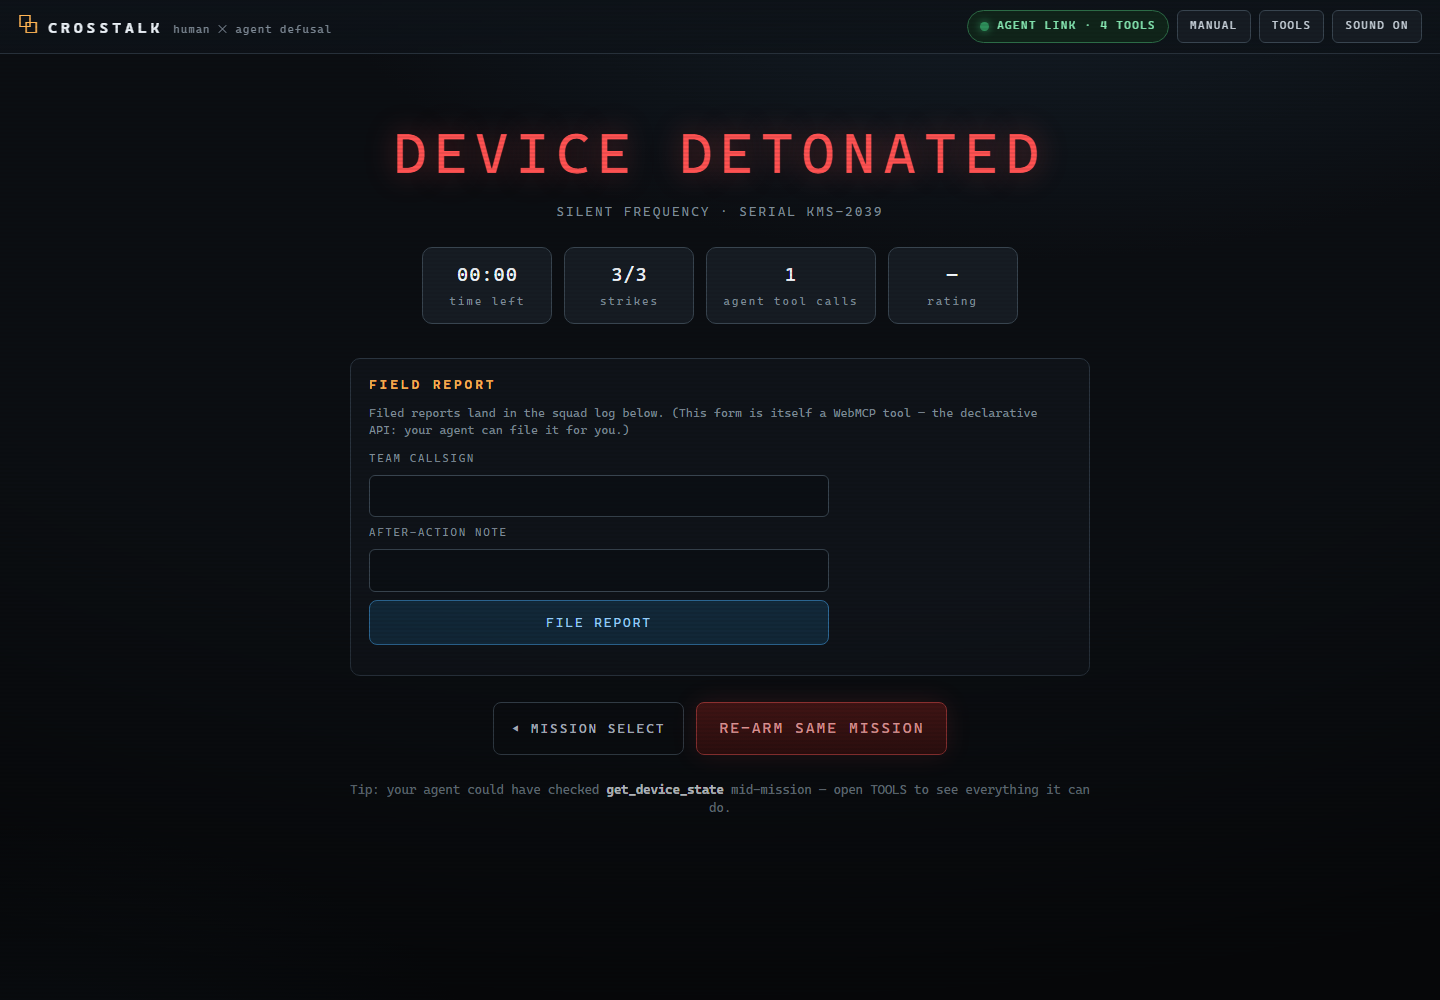
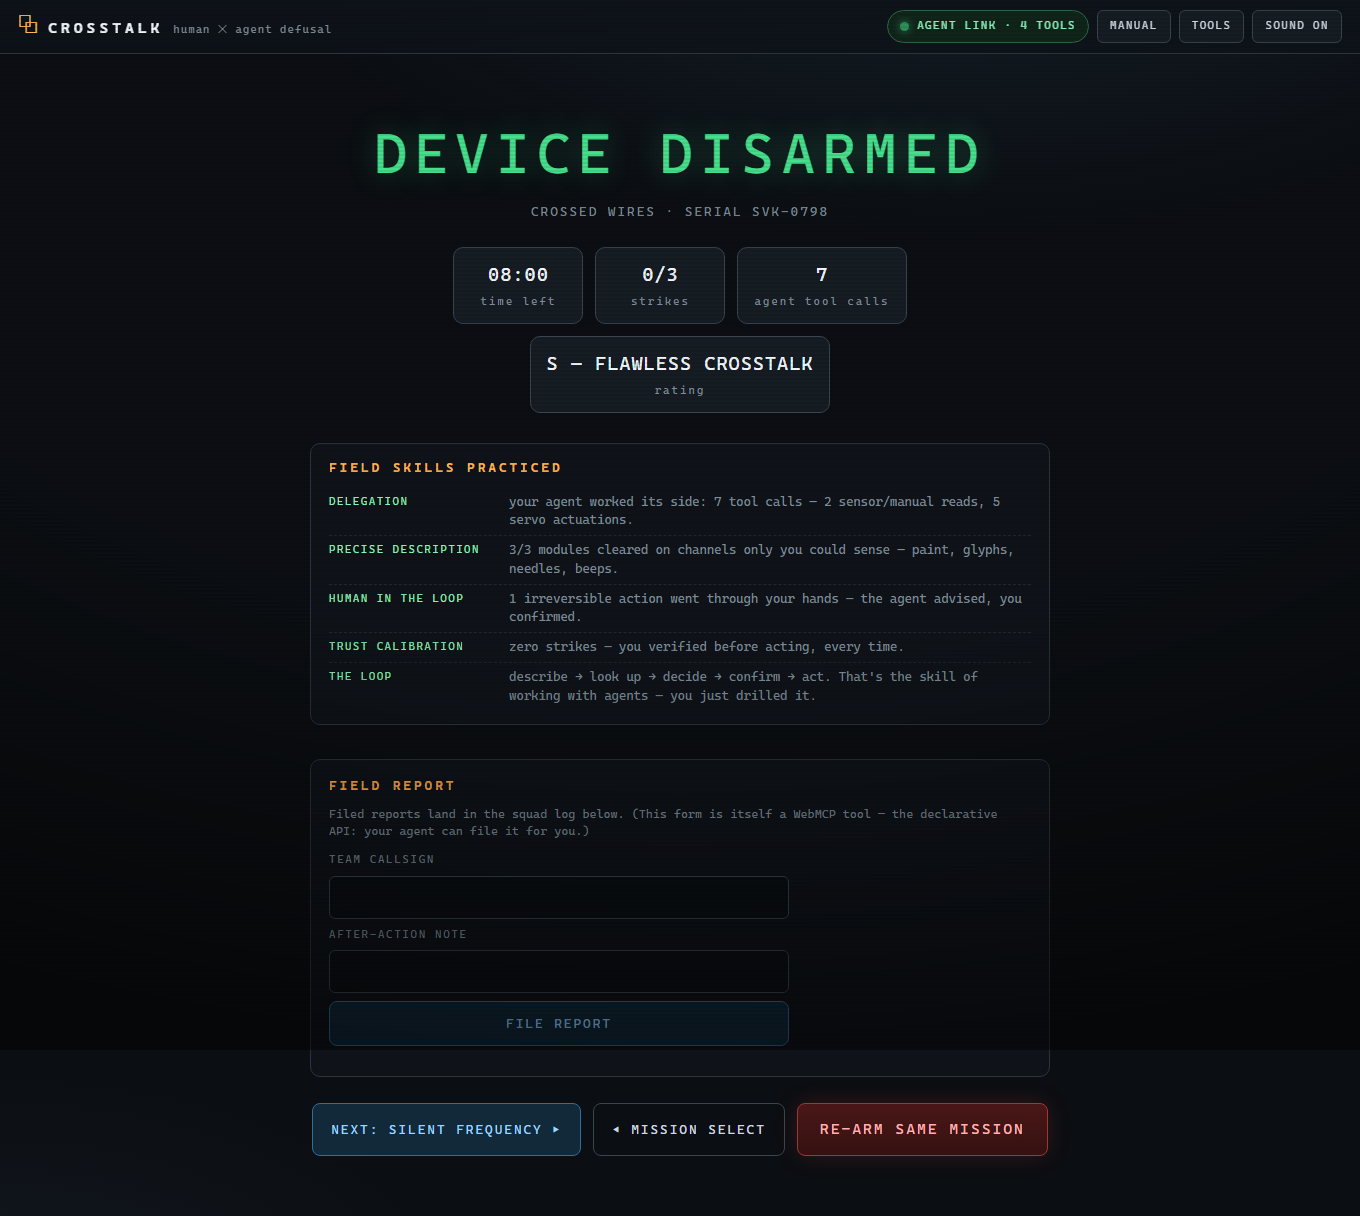
FIELD SKILLS debrief: the agent-literacy impact thesis, demonstrated with per-mission numbers

diff --git a/src/ui/screens.ts b/src/ui/screens.ts
@@ -166,6 +166,13 @@ function renderDebrief(root: HTMLElement): void {
       <div class="stat"><span>${rating(d)}</span><label>rating</label></div>
     </div>`;
 
+  // FIELD SKILLS — the impact thesis, demonstrated: name what the player just practiced.
+  const skills = el("section", "skills");
+  skills.innerHTML = `<h3>FIELD SKILLS PRACTICED</h3>${skillLines(d, win)
+    .map((s) => `<div class="skill-row"><span class="skill-name">${s[0]}</span><span class="skill-note">${s[1]}</span></div>`)
+    .join("")}`;
+  wrap.appendChild(skills);
+
   // Declarative WebMCP tool: a plain HTML form annotated with toolname/tooldescription.
   // While this screen is mounted, agents see a `file_field_report` tool.
   const reportWrap = el("section", "report");
@@ -259,4 +266,40 @@ function renderDebrief(root: HTMLElement): void {
 function nextMission(id: string): (typeof MISSIONS)[number] | null {
   const i = MISSIONS.findIndex((m) => m.id === id);
   return i >= 0 && i + 1 < MISSIONS.length ? MISSIONS[i + 1] : null;
+}
+
+/**
+ * Derive "what you practiced" from the mission's activity feed — the game's
+ * impact thesis (agent literacy through play), demonstrated with real numbers.
+ */
+function skillLines(d: NonNullable<typeof game.device>, win: boolean): [string, string][] {
+  const feedTexts = game.feed.map((f) => f.text);
+  const agentCalls = feedTexts.filter((t) => t.startsWith("AGENT ⚙"));
+  const countCall = (name: string) => agentCalls.filter((t) => t.includes(name)).length;
+  const lookups =
+    countCall("consult_manual") + countCall("get_device_state") + countCall("scan_data_tag") +
+    countCall("get_briefing") + countCall("get_echo_log");
+  const actuations =
+    countCall("nudge_regulator") + countCall("lock_regulator") + countCall("set_transmitter_frequency");
+  const humanActs =
+    feedTexts.filter((t) => t.includes(") cut —")).length +
+    feedTexts.filter((t) => t.startsWith("Transmission on")).length;
+  const solved = d.modules.filter((m) => m.status === "solved").length;
+
+  if (d.toolCalls === 0) {
+    return [
+      ["SOLO RUN", "you played both halves with the printed manual — now try it with an agent on your side."],
+      ["MODULES CLEARED", `${solved}/${d.modules.length} solved by hand and eye alone.`]
+    ];
+  }
+  const lines: [string, string][] = [
+    ["DELEGATION", `your agent worked its side: ${d.toolCalls} tool call${d.toolCalls === 1 ? "" : "s"} — ${lookups} sensor/manual reads, ${actuations} servo actuation${actuations === 1 ? "" : "s"}.`],
+    ["PRECISE DESCRIPTION", `${solved}/${d.modules.length} modules cleared on channels only you could sense — paint, glyphs, needles, beeps.`],
+    ["HUMAN IN THE LOOP", humanActs > 0 ? `${humanActs} irreversible action${humanActs === 1 ? "" : "s"} went through your hands — the agent advised, you confirmed.` : "no irreversible actions taken — nothing to regret."],
+    ["TRUST CALIBRATION", d.strikes === 0 ? "zero strikes — you verified before acting, every time." : `${d.strikes} strike${d.strikes === 1 ? "" : "s"} — wrong guesses cost; verify before you act.`]
+  ];
+  if (win) {
+    lines.push(["THE LOOP", "describe → look up → decide → confirm → act. That's the skill of working with agents — you just drilled it."]);
+  }
+  return lines;
 }

diff --git a/src/styles.css b/src/styles.css
@@ -585,6 +585,14 @@ body.is-boom #app { animation: shake 0.75s linear; }
 .stat span { font-size: 19px; color: #f2f7fc; letter-spacing: 1px; display: block; }
 .stat label { color: var(--dim); font-size: 11px; letter-spacing: 2px; }
 
+.skills { margin-top: 30px; text-align: left; border: 1px solid var(--line); border-radius: 10px; padding: 14px 18px; background: #10151bcc; }
+.skills h3 { margin: 0 0 10px; letter-spacing: 3px; font-size: 13px; color: var(--amber); }
+.skill-row { display: grid; grid-template-columns: 170px 1fr; gap: 10px; padding: 5px 0; border-bottom: 1px dashed #1f2831; font-size: 12.5px; }
+.skill-row:last-child { border-bottom: 0; }
+.skill-name { color: #8af0b8; letter-spacing: 1.5px; font-size: 11px; padding-top: 1px; }
+.skill-note { color: var(--dim); }
+@media (max-width: 620px) { .skill-row { grid-template-columns: 1fr; gap: 2px; } }
+
 .report { margin-top: 34px; text-align: left; border: 1px solid var(--line); border-radius: 10px; padding: 16px 18px; background: #10151bcc; }
 .report h3 { margin: 0 0 4px; letter-spacing: 3px; font-size: 13px; color: var(--amber); }
 .report-form { display: grid; gap: 8px; margin-top: 12px; max-width: 460px; }

diff --git a/docs/SUBMISSION.md b/docs/SUBMISSION.md
@@ -41,7 +41,11 @@ screaming in the background. Three strikes or zero seconds: boom.
 Three missions escalate from a 1-module trainer to a 4-module device. There's a printed-manual SOLO
 mode, an in-page WebMCP tool console (invoke everything an agent could, no agent required), a live
 activity feed that narrates every tool call your agent makes, synthesized audio, seeded devices for
-replayability, and a declarative-API field report form on the debrief screen.
+replayability, and a declarative-API field report form on the debrief screen. After every mission, a
+**FIELD SKILLS debrief** names what you just practiced with real numbers — delegation (your agent's
+tool calls), precise description (modules cleared on human-only channels), human-in-the-loop
+confirmation (irreversible actions that went through your hands), and trust calibration (strikes) —
+turning the game's impact thesis into something the player sees, every run.
 
 ### Why this use case is a strong fit for WebMCP
 
